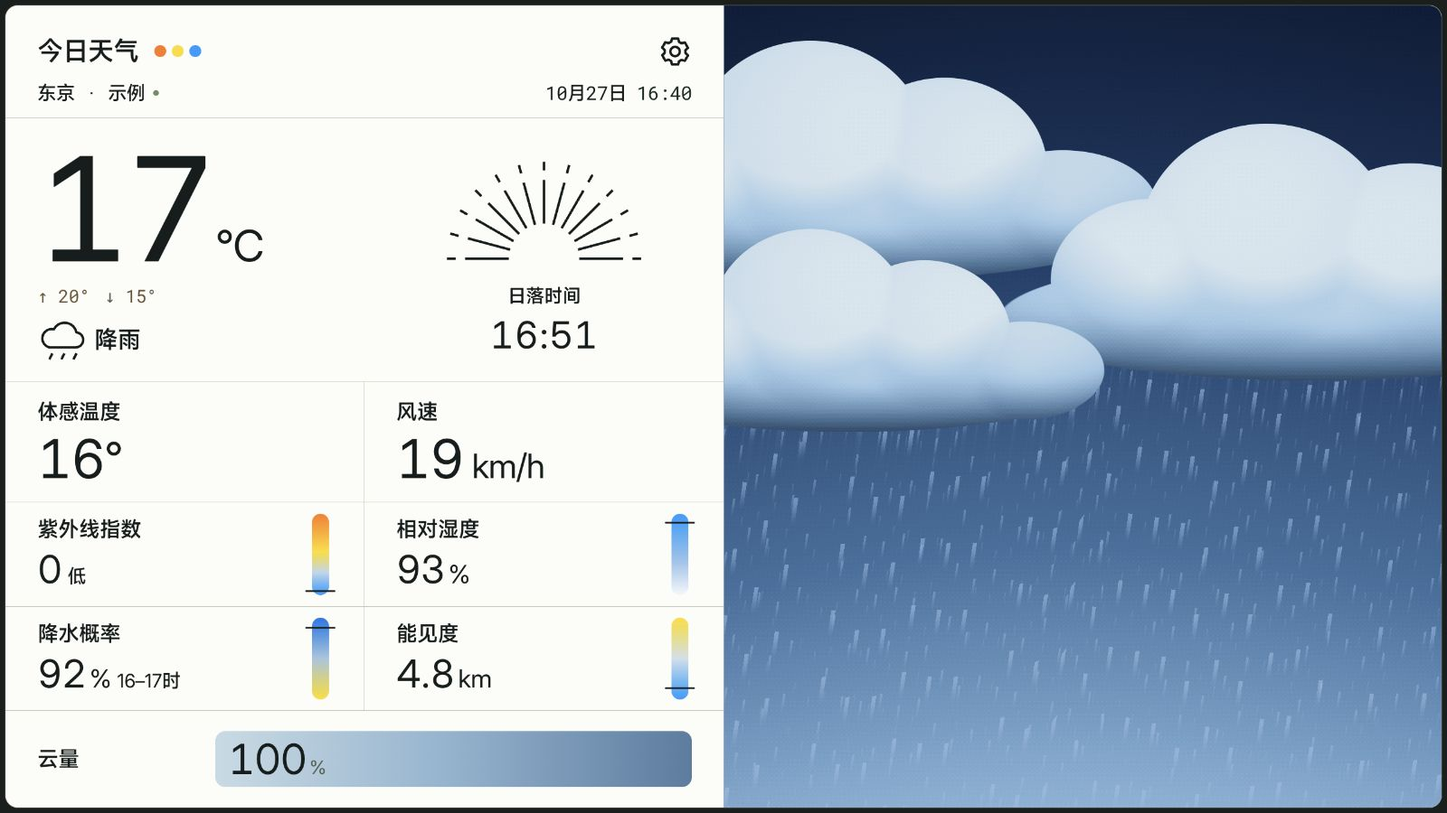
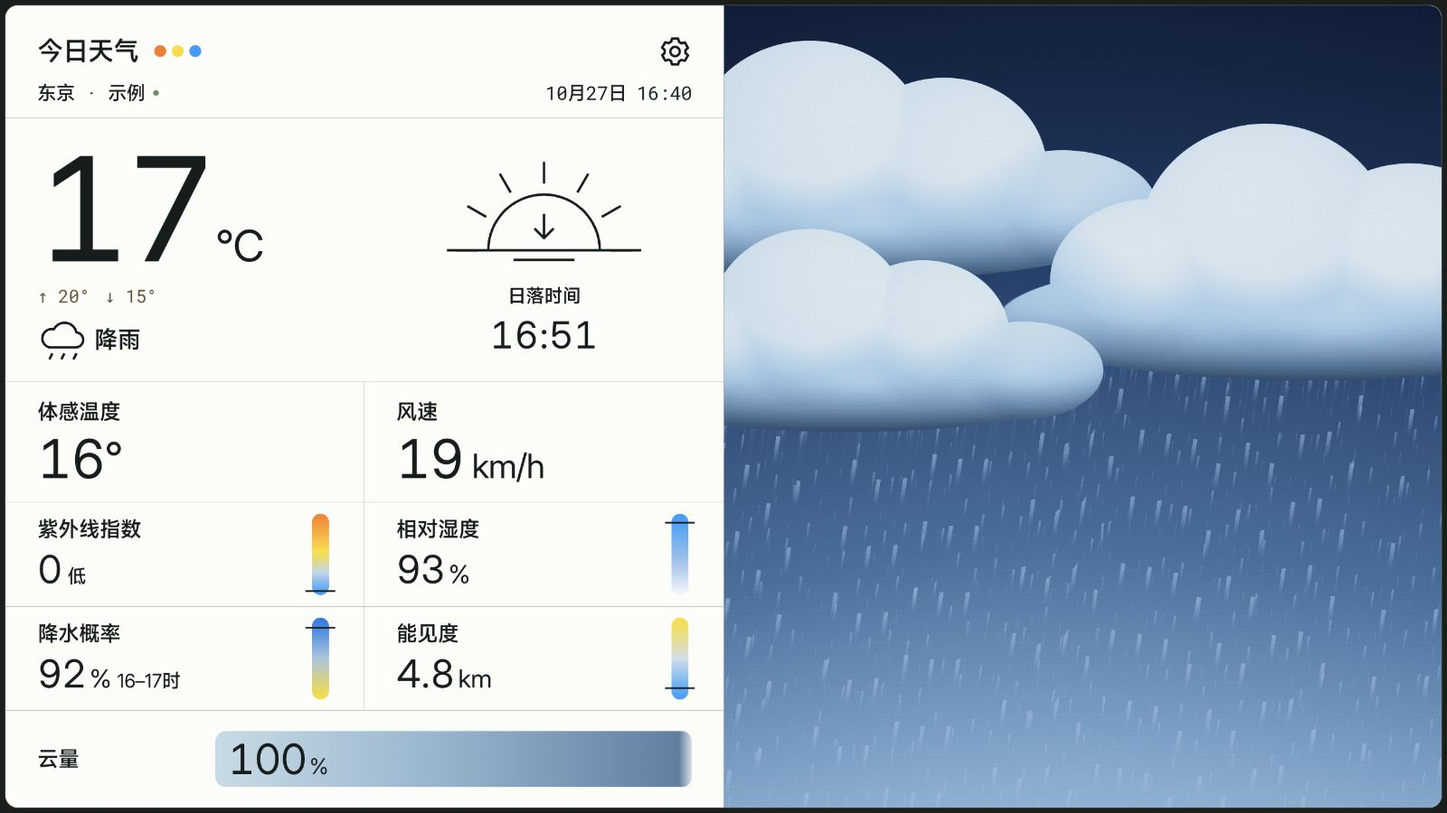
Ground the fog coast, soften cloud meters and distinguish solar events
The fog landmark looked assembled from disconnected pieces: a rectangular
plinth on a floating slab above a flat sea. Small cloud-cover fills squeezed
an entire multi-colour gradient into a short area, and the percent symbol was
hard to read. Sunrise and sunset also reused the same large fan diagram.

Embed a two-step lighthouse foundation in a low island using a gravel lip,
contact/cast shadows and restrained diffuse surface shading. Blend the wet
shore into perspective water wavelets, broken coastal ripples and small wet
rocks instead of a hard slab edge. Retain the slow sweeping beacon and moving
fog veils.

Paint weather-linked meter palettes at full-track scale, soften the fill end
and add a faint track wash. Keep numerical cloud percentage and fill width
aligned; enlarge the percentage symbol and use the shared dark text ink.
Preserve neutral paper surfaces and the existing layout.

Keep the sunrise radial fan and add a distinct sunset diagram with a half sun,
horizon, short rays and a downward arrow. Both use the same viewBox and stroke,
and the upcoming solar event selects the diagram independently of the scene.

Fix displaced rain samples leaking past the cloud's left boundary. Evaluate
all five cloud lobes for the lower envelope and require both the displaced
source and current horizontal footprint before drawing precipitation.

Validation: npm run check; npm run design-board; git diff --check. Inspect all
[…]

diff --git a/dist/weather-shader.js b/dist/weather-shader.js
@@ -83,7 +83,11 @@ float ellipseBottom(float x,float centerX,float centerY,vec2 radius){
 }
 float cloudBottom(float x,vec2 center,float scale){
   float local=(x-center.x)/scale;
-  float bottom=max(ellipseBottom(local,0.,0.,vec2(.37,.074)),ellipseBottom(local,.265,-.018,vec2(.12,.073)));
+  float bottom=ellipseBottom(local,0.,0.,vec2(.37,.074));
+  bottom=max(bottom,ellipseBottom(local,-.19,-.045,vec2(.12,.096)));
+  bottom=max(bottom,ellipseBottom(local,-.055,-.091,vec2(.15,.139)));
+  bottom=max(bottom,ellipseBottom(local,.115,-.068,vec2(.13,.115)));
+  bottom=max(bottom,ellipseBottom(local,.265,-.018,vec2(.12,.073)));
   return bottom> -1.?center.y+bottom*scale/aspect:-1.;
 }
 float rainOrigin(float x){
@@ -172,15 +176,30 @@ vec3 sea(vec2 uv,float horizon,float reflectionCenter){
   color=light(color,vec3(1.,.85,.52)*reflection*glint*.24);
   return light(color,vec3(.85,.47,.22)*exp(-depth*65.)*.10);
 }
+float fogShore(vec2 uv){
+  vec2 q=(uv-vec2(.67,.802))/vec2(.235,.042);
+  float angle=atan(q.y,q.x);
+  return length(q)-1.+.025*sin(angle*7.)+.015*sin(angle*13.+.7);
+}
 vec3 fogCoast(vec3 color,vec2 uv){
-  float waterline=.758;
+  float waterline=.748,shore=fogShore(uv);
   if(uv.y>waterline){
     float depth=clamp((uv.y-waterline)/(1.-waterline),0.,1.);
-    vec3 water=mix(vec3(.47,.56,.59),vec3(.31,.42,.47),depth);
-    float ripple=pow(max(0.,sin(uv.y*390.+.45*sin(uv.x*27.+elapsed*.2))),14.);
-    color=mix(water,vec3(.62,.69,.68),ripple*.055);
-    float reflection=exp(-pow((uv.x-.68)/(.016+depth*.10),2.))*exp(-depth*7.);
-    color=light(color,vec3(.87,.68,.35)*reflection*ripple*.12);
+    vec3 water=mix(vec3(.47,.56,.59),vec3(.28,.39,.44),sqrt(depth));
+    float rows=sqrt(depth)*29.,row=floor(rows),columns=mix(58.,15.,depth);
+    float x=uv.x+.004*sin(elapsed*.27+row*1.8);
+    float tile=floor(x*columns+hash(vec2(row,31.))*7.);
+    float seed=hash(vec2(tile,row)),local=fract(x*columns+hash(vec2(row,31.))*7.);
+    float crest=.46+.12*sin(elapsed*(.34+seed*.15)+row*1.7);
+    float ripple=(1.-smoothstep(.035,.14,abs(fract(rows)-crest)))*smoothstep(.10,.18,local)*(1.-smoothstep(.43+seed*.23,.55+seed*.23,local));
+    water=mix(water,vec3(.57,.64,.65),ripple*(.14+.10*depth));
+    float reflection=exp(-pow((uv.x-.68)/(.016+depth*.10),2.))*exp(-depth*5.);
+    water=light(water,vec3(.87,.68,.35)*reflection*ripple*.17);
+    // Expanding, broken shoreline ripples bind the rock skirt to the surrounding water.
+    float coastal=pow(max(0.,sin(shore*26.-elapsed*.75)),10.)*exp(-max(0.,shore)*3.);
+    coastal*=smoothstep(-.03,.08,shore)*smoothstep(.790,.816,uv.y)*(.55+.45*sin(uv.x*91.+1.));
+    water=mix(water,vec3(.67,.71,.68),coastal*.16);
+    color=mix(color,water,smoothstep(waterline,.786,uv.y));
   }
   vec2 lamp=vec2(.68,.584);
   // Project a slow back-and-forth beacon through the fog, fading as it faces the viewer.
@@ -190,14 +209,32 @@ vec3 fogCoast(vec3 color,vec2 uv){
   beam*=(1.-smoothstep(reach*.65,reach,abs(dx)))*smoothstep(.021,.035,abs(dx));
   beam*=smoothstep(-.04,.04,sweep*dx)*abs(sweep);
   color=light(color,vec3(1.,.81,.43)*beam*.48);
-  float islandX=(uv.x-.67)/.21;
-  float islandTop=.802-.043*sqrt(max(0.,1.-islandX*islandX))+.002*sin(uv.x*87.);
-  float islandBottom=.820+.003*sin(uv.x*63.);
-  if(abs(islandX)<1.&&uv.y>islandTop&&uv.y<islandBottom){
-    float ledge=1.-smoothstep(.005,.014,uv.y-islandTop);
-    vec3 rock=mix(vec3(.24,.32,.34),vec3(.42,.47,.44),ledge);
-    rock*=.92+.08*(1.-islandX);
-    color=rock;
+  float land=1.-smoothstep(-.035,.050,shore);
+  if(land>0.){
+    vec2 ground=(uv-vec2(.67,.802))/vec2(.235,.042);
+    float hill=sqrt(max(0.,1.-dot(ground,ground)));
+    vec3 groundNormal=normalize(vec3(ground.x*.35,ground.y*.55,hill+.15));
+    float diffuse=clamp(dot(groundNormal,normalize(vec3(-.4,-.35,.85))),0.,1.);
+    vec3 rock=mix(vec3(.31,.39,.39),vec3(.46,.49,.43),diffuse*.80);
+    float wet=smoothstep(-.28,.035,shore);
+    rock=mix(rock,vec3(.30,.39,.40),wet*.55);
+    // A contact shadow starts below the tower and stretches across the same island surface.
+    vec2 contact=(uv-vec2(.686,.787))/vec2(.044,.008);
+    float contactShadow=exp(-dot(contact,contact));
+    float castShadow=exp(-pow(segment(uv,vec2(.684,.781),vec2(.75,.803))/.010,2.));
+    rock*=1.-contactShadow*.25-castShadow*.13;
+    color=mix(color,rock,land);
+  }
+  for(int i=0;i<4;i++){
+    float n=float(i),seed=hash(vec2(n,53.));
+    vec2 center=vec2(.50+n*.105,.820+.004*sin(n*2.1));
+    vec2 q=(uv-center)/vec2(.014+seed*.009,.0035+seed*.0015);
+    float shape=1.-dot(q,q);
+    if(shape>0.){
+      float glint=clamp(.55-.24*q.x-.18*q.y,0.,1.);
+      vec3 wetRock=mix(vec3(.25,.34,.36),vec3(.43,.48,.45),glint);
+      color=mix(color,wetRock,coverage(shape*.004)*.75);
+    }
   }
   // A tapered cylinder: stable side shading gives the tower volume without dirty noise.
   float height=clamp((.777-uv.y)/.173,0.,1.),halfWidth=mix(.030,.020,height);
@@ -210,8 +247,14 @@ vec3 fogCoast(vec3 color,vec2 uv){
     if(abs(dx-.005)<.003&&uv.y>.680&&uv.y<.696)stone=vec3(.26,.32,.33);
     color=mix(color,stone,coverage(tower));
   }
-  float foundation=min(.035-abs(dx),min(uv.y-.773,.785-uv.y)*aspect);
-  color=mix(color,vec3(.53,.58,.54),coverage(foundation));
+  float foundation=min(.036-abs(dx),min(uv.y-.773,.783-uv.y)*aspect);
+  vec3 foundationStone=mix(vec3(.63,.65,.57),vec3(.37,.45,.44),smoothstep(-.026,.027,dx));
+  color=mix(color,foundationStone,coverage(foundation));
+  float stepBase=min(.041-abs(dx+.001),min(uv.y-.781,.790-uv.y)*aspect);
+  color=mix(color,foundationStone*.90,coverage(stepBase));
+  // A narrow foreground gravel lip occludes the plinth's bottom edge, embedding it in the ground.
+  float gravel=exp(-pow((uv.y-(.789+.0018*sin(uv.x*210.)))/.0032,2.))*(1.-smoothstep(.034,.052,abs(dx)));
+  color=mix(color,vec3(.36,.42,.39),gravel*.70);
   float lantern=min(.025-abs(dx),min(uv.y-.566,.604-uv.y)*aspect);
   if(lantern>0.){
     float glass=step(abs(dx),.019)*step(uv.y,.598)*step(.571,uv.y);
@@ -371,11 +414,12 @@ void main(){
     color=birds(color,uv,scene==10);
   }
   if(scene==3||scene==4){
-    float origin=rainOrigin(uv.x);
+    float footprint=rainOrigin(uv.x),origin=footprint;
     float sourceX=uv.x+max(0.,uv.y-max(0.,origin))*.16;
     origin=rainOrigin(sourceX);
     float fall=uv.y-origin;
-    float rainMask=origin>=0.&&fall>=0.?(1.-cloudCoverMask):0.;
+    // Drifted source coordinates must not create rain beyond the visible cloud footprint.
+    float rainMask=footprint>=0.&&origin>=0.&&fall>=0.?(1.-cloudCoverMask):0.;
     for(int layer=0;layer<3;layer++){
       float n=float(layer),columns=47.-n*10.,rows=18.-n*3.,speed=(scene==4?1.18:.81)+n*.37;
       vec2 rainUV=vec2(sourceX,fall);

diff --git a/dist/app.js b/dist/app.js
@@ -2,18 +2,11 @@ import { WEATHER_PRESETS, resolveWeatherScene, resolveTimeContext } from './weat
 import { FineWeatherRenderer } from './weather-shader.js';
 import { formatScreenWeather, airQualityStatus } from './open-meteo.js';
 import { LANGUAGES, labelPair, conditionPair, uvText, sceneName, localWindow } from './i18n.js';
-import { resolveWeatherIcon, weatherIconMarkup } from './weather-icons.js';
+import { resolveWeatherIcon, weatherIconMarkup, solarIconMarkup } from './weather-icons.js';
 import { formatUnitWeather, WIND_UNITS } from './weather-units.js';
 import { SettingsController } from './settings.js';
 import { APP_META } from './app-meta.js';
 
-const rays = document.querySelector('#sun-rays');
-for(let i=0;i<=12;i++){
-  const angle=Math.PI+i*Math.PI/12;
-  const point=r=>[86+Math.cos(angle)*r,98+Math.sin(angle)*r].join(' ');
-  const path=document.createElementNS('http://www.w3.org/2000/svg','path');
-  path.setAttribute('d','M'+point(29)+'L'+point(65)+'M'+point(73)+'L'+point(80));rays.append(path);
-}
 const rootElement=document.documentElement;
 const appParams=new URL(location.href).searchParams;
 const embedded=parent!==window;
@@ -88,6 +81,7 @@ function renderScreen(){
   }else document.querySelector('#solar-caption').textContent=english?'SOLAR DATA UNAVAILABLE':'日出日落数据暂缺';
   document.querySelector('#solar-event-time').textContent=eventTime;document.querySelector('#solar-period').textContent=period;
   const solar=document.querySelector('#solar-icon');solar.dataset.event=time.event??'unavailable';
+  solar.innerHTML=solarIconMarkup(time.event);
   solar.setAttribute('aria-label',(english?time.event==='sunrise'?'Next sunrise ':'Sunset ':time.event==='sunrise'?'下次日出 ':'日落 ')+eventTime);
   document.querySelector('#solar-caption').hidden=!document.querySelector('#solar-caption').textContent;
   settingsController.render();
@@ -103,7 +97,11 @@ function renderScreen(){
   const cover=document.querySelector('.cover-track');cover.setAttribute('aria-label',english?'Cloud cover':'云量');
   if(Number.isFinite(weather.cloudCover)){cover.setAttribute('aria-valuenow',weather.cloudCover);cover.removeAttribute('aria-valuetext');}
   else{cover.removeAttribute('aria-valuenow');cover.setAttribute('aria-valuetext',english?'Unavailable':'暂无数据');}
-  document.querySelector('.cover-fill').style.width=(weather.cloudCover??0)+'%';
+  const cloudPercentage=Number.isFinite(weather.cloudCover)?Math.max(0,Math.min(100,weather.cloudCover)):0;
+  const coverFill=document.querySelector('.cover-fill');
+  coverFill.style.width=cloudPercentage+'%';
+  // Paint the palette at track scale instead of compressing all colours into a short fill.
+  coverFill.style.setProperty('--cover-paint-width',(10000/Math.max(1,cloudPercentage))+'%');
   gauge('.gauge-uv',weather.uvIndex,11,(english?'UV index ':'紫外线指数 ')+display.uvIndex+', '+display.uvLabel);
   gauge('.gauge-humidity',weather.humidity,100,(english?'Humidity ':'湿度 ')+display.humidity+'%');
   gauge('.gauge-precipitation',weather.precipitationProbability,100,display.precipitationWindow+(english?' precipitation chance ':' 降水概率 ')+display.precipitationProbability+'%');

diff --git a/dist/styles.css b/dist/styles.css
@@ -78,10 +78,10 @@ h1 .label-secondary { font: 400 2.45cqw/1.2 var(--mono); letter-spacing: -.055em
 .gauge-precipitation { background: linear-gradient(#0878e8,#a6c5df 50%,var(--accent-yellow)); }
 .gauge-visibility { background: linear-gradient(var(--accent-yellow),#d1dfeb 50%,var(--accent-blue)); }
 .cloud-cover { display: grid; grid-template-columns: 25% minmax(0, 1fr); align-items: center; gap: 2cqw; padding: 1.2cqw 4.4cqw;background:var(--paper); }
-.cover-track { position: relative; height: 8.8cqw; max-height: 8.4cqh; overflow: hidden; border-radius: 1.4cqw; background: var(--cover-track); }
-.cover-fill { position: absolute; inset: 0 auto 0 0; width: 32%; background: linear-gradient(90deg,var(--cover-colors)); border-radius: 1.4cqw; }
+.cover-track { position: relative; height: 8.8cqw; max-height: 8.4cqh; overflow: hidden; border-radius: 1.4cqw; background:linear-gradient(#fcfcf8c9,#fcfcf8c9),linear-gradient(90deg,var(--cover-colors)); }
+.cover-fill { position: absolute; inset: 0 auto 0 0; width: 32%; background:linear-gradient(90deg,var(--cover-colors));background-size:var(--cover-paint-width,100%) 100%;background-repeat:no-repeat;mask-image:linear-gradient(90deg,#000 max(0px,calc(100% - 1.8cqw)),transparent);border-radius:1.4cqw 0 0 1.4cqw; }
 .cover-value { position: relative; display: flex; align-items: baseline; gap: .4cqw; padding: .6cqw 1.8cqw; font-size: 6.4cqw; line-height: 1; font-weight: 400; letter-spacing: -.055em; }
-.cover-percent { font-size: .45em; letter-spacing: -.02em; color: #4e5d4d; }
+.cover-percent { font-size:.52em;letter-spacing:var(--tracking-number);color:var(--ink); }
 .visual-panel { container-type: size; min-width: 0; min-height: 0; position: relative; overflow: hidden; background: #abc8dc; border-left: 1px solid #a4b3ba; }
 .weather-artwork { position: absolute; inset: 0; }
 .weather-pixels { display: block; width: 100%; height: 100%; image-rendering: pixelated; }

diff --git a/dist/weather-icons.js b/dist/weather-icons.js
@@ -11,6 +11,28 @@ export function resolveWeatherIcon(weather) {
   return (night ? 'night-' : '') + scene;
 }
 
+// Solar-event diagrams share a viewBox and stroke, but retain distinct silhouettes.
+export function solarIconMarkup(event) {
+  const line=path=>`<path d="${path}"/>`;
+  let body='';
+  if(event==='sunrise'){
+    for(let i=0;i<=12;i++){
+      const angle=Math.PI+i*Math.PI/12;
+      const point=r=>[86+Math.cos(angle)*r,98+Math.sin(angle)*r].join(' ');
+      body+=line('M'+point(29)+'L'+point(65)+'M'+point(73)+'L'+point(80));
+    }
+  }else if(event==='sunset'){
+    body=line('M40 91A46 46 0 0 1 132 91M6 91H166M61 99H111');
+    for(let i=0;i<=6;i++){
+      const angle=Math.PI+i*Math.PI/6;
+      const point=r=>[86+Math.cos(angle)*r,91+Math.sin(angle)*r].join(' ');
+      body+=line('M'+point(55)+'L'+point(73));
+    }
+    body+=line('M86 61V81M78 73L86 81L94 73');
+  }else body=line('M36 86H136M74 64H98');
+  return `<g fill="none" stroke="currentColor" stroke-width="2.2" stroke-linecap="butt" stroke-linejoin="round">${body}</g>`;
+}
+
 export function weatherIconMarkup(key) {
   const line = path => `<path d="${path}"/>`;
   // The same 32-unit canvas as the gear and navigation icons. Keep secondary

diff --git a/dist/index.html b/dist/index.html
@@ -31,7 +31,7 @@
           <div class="condition-heading"><svg id="condition-icon" viewBox="0 0 32 32" aria-hidden="true"></svg><p class="weather-description"><span id="condition-primary">晴间多云</span><span id="condition-secondary" lang="en">Partly cloudy</span></p></div>
         </div>
         <div class="time-summary">
-          <svg id="solar-icon" class="weather-icon" viewBox="0 0 172 100" role="img" aria-label="日落"><g id="sun-rays" fill="none" stroke="currentColor" stroke-width="2.2" stroke-linecap="butt"></g></svg>
+          <svg id="solar-icon" class="weather-icon" viewBox="0 0 172 100" role="img" aria-label="日落"></svg>
           <h2 id="solar-event-label" class="metric-label" data-label="sunset"><span class="label-primary">日落时间</span></h2>
           <p class="clock-value"><span id="solar-event-time">17:16</span><small id="solar-period"></small></p>
           <p class="solar-caption" id="solar-caption">日间进度</p>

diff --git a/docs/DESIGN-SYSTEM.md b/docs/DESIGN-SYSTEM.md
@@ -10,7 +10,7 @@ The browser uses Inter for numeric values and UI text, MiSans for Chinese glyphs
 | Large temperature | `--tracking-display: -.04em` | tabular Inter |
 | Solar time | `--tracking-time: .01em` | tabular Inter |
 
-Weather and control icons share a 32-unit canvas, flat line ends, lightly rounded joins and a bolder `--icon-stroke` (0.34% of the panel width, clamped to 2–3.4 CSS pixels). Geometry uses `vector-effect: non-scaling-stroke` so different display sizes do not accidentally create different line weights. The larger solar diagram uses the same stroke token and retains its established straight radial rays. Weather forms are deliberately geometric: eight sun rays, one crescent, a single three-arc cloud, three rain strokes, two snowflakes, two wind lines and an open lightning zigzag. Avoid miniature decorative stars, layered rain/moon/thunder combinations and filled emblems.
+Weather and control icons share a 32-unit canvas, flat line ends, lightly rounded joins and a bolder `--icon-stroke` (0.34% of the panel width, clamped to 2–3.4 CSS pixels). Geometry uses `vector-effect: non-scaling-stroke` so different display sizes do not accidentally create different line weights. The larger solar diagrams share the same stroke token and 172×100 viewBox. Sunrise retains the established straight radial fan; sunset uses a half sun, shorter rays, a horizon and a downward arrow. Select the diagram from the upcoming solar event, independently of the illustrated weather scene. Weather forms are deliberately geometric: eight sun rays, one crescent, a single three-arc cloud, three rain strokes, two snowflakes, two wind lines and an open lightning zigzag. Avoid miniature decorative stars, layered rain/moon/thunder combinations and filled emblems.
 
 The weather hero uses the same equal-width columns as the metric grid. Temperature and the solar diagram share a baseline track, range and solar label share the next row, and the weather description shares its text baseline with the event time. The weather symbol is centered beside the description but does not determine the text baseline. All support rows use `--hero-row-gap: 1.6cqw`; a hidden next-day caption removes its row entirely. The temperature is sized to stay inside its half of the grid, with a separate smaller tier for three-character readings. Its unit shares the number's baseline with a compact 0.025em gap. The cloud-cover reading is centered as one baseline-aligned value/percent group inside its track.
 
@@ -20,7 +20,7 @@ Fine artwork follows the native canvas dimensions, capped at 1536 columns and th
 
 The accent anchors are orange `#ff7a1a`, yellow `#ffdc1f` and azure `#159cff`. Header dots and weather meters use these same tokens. Small accents retain their colour purity; large sky fields use natural azure and cool blue-grey in daylight, orange/gold with restrained violet at sunset, and deep navy with blue-white light in storms. Rain, fog and wind highlights avoid fluorescent cyan. A 0.97 output ceiling, restrained highlight lift and reduced bloom control large light areas. The Canvas fallback uses the same grade and corresponding palettes.
 
-Keep the header, hero, metrics and settings surfaces in the shared neutral paper colour. Weather-linked colour belongs in the cloud-cover meter: sunny scenes use yellow/blue, dawn pink/blue, sunset violet/orange/deep blue, night pale gold/slate, rain and storm blue-grey, snow ice blue, overcast cool grey and fog warm grey/sage. Each scene also gives the unfilled track a quiet related tint. Fill width still represents cloud percentage; colour is illustrative, not another measurement. Do not tint whole data cards to match the sky.
+Keep the header, hero, metrics and settings surfaces in the shared neutral paper colour. Weather-linked colour belongs in the cloud-cover meter: sunny scenes use yellow/blue, dawn pink/blue, sunset violet/orange/deep blue, night pale gold/slate, rain and storm blue-grey, snow ice blue, overcast cool grey and fog warm grey/sage. Each scene also gives the unfilled track a quiet related tint. Fill width still represents cloud percentage. Its palette is painted at full-track scale rather than compressed into the fill, with a soft trailing edge and a faint full-track wash. The percentage symbol uses the text ink and a larger proportional size. Colour is illustrative, not another measurement. Do not tint whole data cards to match the sky.
 
 GPU motion runs on a continuous elapsed-time clock, with no short master loop. Clouds keep fixed natural silhouettes and drift in one direction at different speeds, wrapping only when completely offscreen. Their full crossings take minutes. Atmospheric light, star twinkles, sea shimmer and the three precipitation layers use independent rates. Lightning timing and horizontal position vary in successive 32-second scheduling windows; meteor timing and position vary in 53-second windows. These are event scheduling windows, not whole-scene loops. Pause/resume preserves elapsed time and reduced-motion freezes the illustration. The legacy Canvas fallback retains its simpler eight-second animation and does not implement the full GPU system.
 
@@ -28,6 +28,6 @@ Dawn and sunset use a level sea horizon. Wavelet spacing increases toward the vi
 
 Dawn uses a low sun to the left, cool rose/blue light, naturally rounded cloud banks with thin high cirrus and two distant birds. Sunset puts the sun to the right, with warmer thick clouds, copper reflections and a nearer flock of five. Bird passages vary in successive 83-second scheduling windows. Solar height changes slowly in the appropriate direction, and reflection position follows the solar position. Sun granulation, lunar surface marks and the crescent are illustrative artwork, not a solar/lunar observation feed.
 
-Night has three star fields with different density, size, brightness and independent twinkle rates, including gold points and sparse warm glints, plus a faint broad sky band. The Moon and its halo share a slow local-transmission envelope while surface marks stay stable. Fog uses fine continuous density ramps, a distant ridge, a low island and a striped lighthouse with a tapered cylindrical tower, a shaded side, lantern gallery and grounded island ledge. Advecting veils obscure/reveal these landmarks and a warm beacon sweeps back and forth over roughly 42 seconds, changing its direction, spread and visibility through the mist. Wind uses a smaller pale-gold sun filtered by thin haze, distinct from the clear scene’s orange sun. It retains the established flattened cloud form with small proportion variations, and uses three trail layers with different widths, opacity, speed and length. The clear-sky composition stays fixed while its sun uses a red-orange/gold surface ramp and the sky retains blue, peach and restrained violet variation. Dawn additionally has thin high cloud and a faint near-horizon sea mist.
+Night has three star fields with different density, size, brightness and independent twinkle rates, including gold points and sparse warm glints, plus a faint broad sky band. The Moon and its halo share a slow local-transmission envelope while surface marks stay stable. Fog uses fine continuous density ramps, a distant ridge, a low island and a striped lighthouse with a tapered cylindrical tower, a shaded side and lantern gallery. A two-step foundation, contact/cast shadows and a small gravel lip anchor the tower in a low island, whose diffuse surface shading blends into wet rocks and a soft shoreline. Perspective wavelets and broken coastal ripples tie that shore to the water. Advecting veils obscure/reveal these landmarks and a warm beacon sweeps back and forth over roughly 42 seconds, changing its direction, spread and visibility through the mist. Wind uses a smaller pale-gold sun filtered by thin haze, distinct from the clear scene’s orange sun. It retains the established flattened cloud form with small proportion variations, and uses three trail layers with different widths, opacity, speed and length. The clear-sky composition stays fixed while its sun uses a red-orange/gold surface ramp and the sky retains blue, peach and restrained violet variation. Dawn additionally has thin high cloud and a faint near-horizon sea mist.
 
-Cloud coverage modulates the common atmospheric-light envelope, while the light origin drives the restrained cloud-volume contribution. Rain origins follow the moving cloud bases and account for lateral drift; cloud coverage clips precipitation from cloud faces. These are deliberate stylized approximations. The natural-behavior references and their implementation boundaries are documented in [natural phenomena](NATURAL-PHENOMENA.md).
+Cloud coverage modulates the common atmospheric-light envelope, while the light origin drives the restrained cloud-volume contribution. Rain origins follow the complete lower envelope of all moving cloud lobes and account for lateral drift. The displaced source must also lie within the current horizontal footprint, and cloud coverage clips precipitation from cloud faces. These are deliberate stylized approximations. The natural-behavior references and their implementation boundaries are documented in [natural phenomena](NATURAL-PHENOMENA.md).

diff --git a/docs/NATURAL-PHENOMENA.md b/docs/NATURAL-PHENOMENA.md
@@ -4,7 +4,7 @@ Reviewed 22 October 2026. These rules guide the artwork; the shader is a stylize
 
 ## Precipitation and cloud depth
 
-Water droplets grow inside clouds and fall when sufficiently large, as described by the [Met Office rain guide](https://weather.metoffice.gov.uk/learn-about/weather/types-of-weather/rain). The artwork therefore attaches the rain curtain to moving cloud bases. It estimates the lower cloud envelope, shifts the rain's source coordinate with its lateral drift, and masks rain from cloud faces. The same coverage mask keeps snow in front of open sky below the clouds. This fixes the previous fixed-height curtain and the appearance of rain painted over cloud surfaces. Not every visible cloud is treated as an independently raining volume.
+Water droplets grow inside clouds and fall when sufficiently large, as described by the [Met Office rain guide](https://weather.metoffice.gov.uk/learn-about/weather/types-of-weather/rain). The artwork therefore attaches the rain curtain to moving cloud bases. It evaluates the lower envelope of all cloud lobes, shifts the rain's source coordinate with its lateral drift, and masks rain from cloud faces. The visible curtain is also restricted to the current horizontal cloud footprint so a displaced sample cannot create a detached edge fringe as a cloud exits. The same coverage mask keeps snow in front of open sky below the clouds. This fixes the previous fixed-height curtain and the appearance of rain painted over cloud surfaces. Not every visible cloud is treated as an independently raining volume.
 
 ## Light, shadow and reflection
 
@@ -14,7 +14,7 @@ Dawn and sunset move the solar disc slowly in opposite vertical directions. The 
 
 ## Fog and visibility
 
-[NOAA](https://www.noaa.gov/jetstream/synoptic/types-of-weather-phenomena) describes fog as suspended droplets that restrict visibility; the [NWS advection-fog guide](https://www.weather.gov/safety/fog-advection) explains how low-level wind transports fog over the landscape. The illustration uses a softened distant ridge, a nearer island and lighthouse, and moving translucent veils that obscure and reveal them. A warm rotating beacon makes the drifting mist more legible; its beam and timing are artistic choices rather than measured optical behavior. Fine mode blends density through small ordered-dither steps rather than switching large white pixel bands on and off. The coast and lighthouse are illustrative, not a map or landmark of the selected city.
+[NOAA](https://www.noaa.gov/jetstream/synoptic/types-of-weather-phenomena) describes fog as suspended droplets that restrict visibility; the [NWS advection-fog guide](https://www.weather.gov/safety/fog-advection) explains how low-level wind transports fog over the landscape. The illustration uses a softened distant ridge, a nearer island and lighthouse, and moving translucent veils that obscure and reveal them. A shared perspective water plane, low wet shoreline, fragmented near-shore ripples and tower contact shadows connect the landmark to the sea. These are composition cues, not a surveyed coast. A warm sweeping beacon makes the drifting mist more legible; its beam and timing are artistic choices rather than measured optical behavior. Fine mode blends density through small ordered-dither steps rather than switching large white pixel bands on and off. The coast and lighthouse are illustrative, not a map or landmark of the selected city.
 
 ## Stars and the Moon
 

diff --git a/docs/IMPLEMENTATION-STATUS.md b/docs/IMPLEMENTATION-STATUS.md
@@ -11,3 +11,5 @@ Checks include canonical weather/state/API/translation contracts and 88 scenario
 The current browser refinement was inspected across all eleven scenes in Chinese and English at 1440×960, then rechecked at 1600×900 after the final palette update. All 22 final cases used WebGL2 and neutral data surfaces, with nine scene-linked cloud-meter gradients. Continuous animation exceeded one minute; pause/resume retained its elapsed time, and drifting fog was observed beyond 170 seconds. The revised lighthouse, sweeping beam, wind sun and rounded dawn clouds were inspected in rendered output. These checks do not measure tablet frame rate or power consumption.
 
 Current verification uses the source suite and actual browser rendering of the two language modes, seven primary settings, secondary tools and baseline-aligned °C/°F. Android build/lint ran before APK work was paused and does not establish a device check of later CSS refinements. Source upload and remote CI are recorded separately after completion.
+
+The follow-up browser pass rechecked all 22 CN/EN scenes after the cloud-meter and solar-diagram changes: filled widths matched their percentages, the percent symbol used the shared dark ink, and sunrise/sunset rendered two distinct diagrams. Rain was inspected after 237 seconds as clouds approached the edge and captured at 316.54 seconds; its displaced curtain remained bounded by the current cloud footprint. Fog-coast inspection covered the foundation contact, low wet shore and perspective wavelets.

diff --git a/CHANGELOG.md b/CHANGELOG.md
@@ -19,6 +19,7 @@
 - Rebuild the dawn/sunset sea with a level horizon, perspective wavelets, widening broken gold reflections and staggered glints; soften sunlight into broad atmospheric bands.
 - Differentiate dawn and sunset composition, cloud proportions, bird passages and reflected light. Add solar granulation, lunar surface detail, brighter three-layer star fields and finer, visibly advecting fog around a broader, volume-shaded island lighthouse with a slowly sweeping warm beacon. Restore rounded dawn cloud proportions and distinguish the windy scene with a smaller, haze-filtered pale-gold sun.
 - Attach precipitation to moving cloud bases and mask it from cloud faces. Couple scene transmission, cloud lighting and sun shafts; refine wind into three depths of soft trails while retaining the established flattened cloud style.
+- Keep cloud-meter palettes at full track scale, soften short-fill ends and strengthen the percentage symbol. Integrate the fog lighthouse with contact shadows, wet rocks, a feathered shoreline and perspective water ripples. Restrict drifted rain to the current cloud footprint and use all cloud lobes for its base. Give sunrise and sunset distinct diagrams in the same stroke system.
 - Retain the existing installation identity and local preferences.
 - Pause APK work while the browser design is refined; publish source and repository foundations only. Real weather fetching and verified in-app updating remain pending.
 
